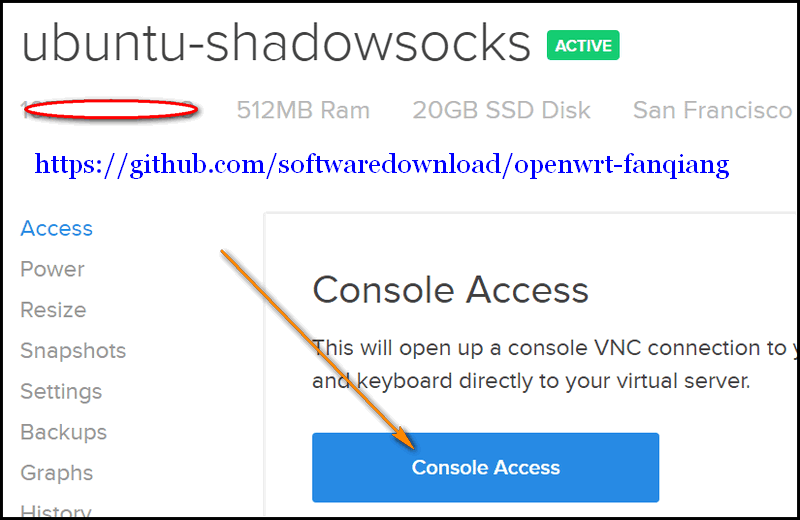
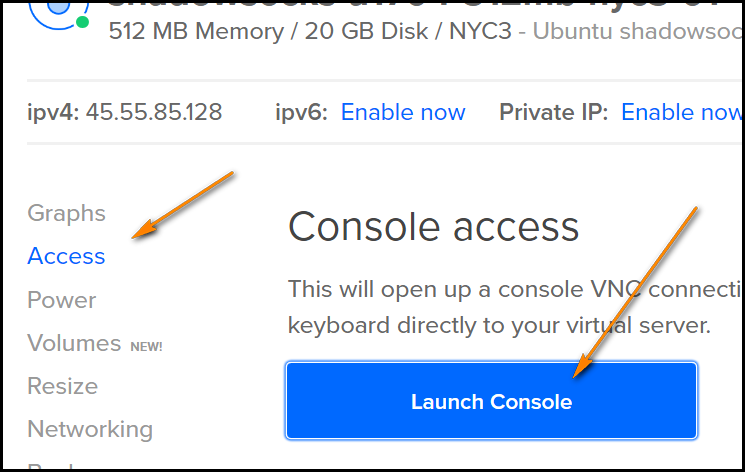
Update guide for creating DO VPS

diff --git a/ebook/03.9.md b/ebook/03.9.md
@@ -14,40 +14,47 @@
 
 ## 创建翻墙用的虚拟服务器Droplet
 
-注册DO并绑定支付方式后，登录管理后台，点击右上角的 `Create Droplet`:
+注册DO并绑定支付方式后，登录管理后台，点击右上角的 `Create` 从下拉菜单中选择 `Droplet`:
 
-- Choose an image 选择最新版的Ubuntu 64位，下图是14.04.3，下拉还有更新的如16.10：  
+- Choose an image 选择最新版的Ubuntu 64位，下图是14.04.3，下拉还有更新的如17.04：  
 	![](images/3.9.choose-an-image.png)
 - Choose a site 一般512MB那款就够了：  
 	![](images/3.9.choose-a-size.png)
-- Choose a datacenter region 经测试选择New York时访问YouTube会更快，San Francisco则慢且可能不稳定：  
+- Choose a datacenter region 经测试选择New York时访问YouTube较快：  
 	![](images/3.9.choose-a-datacenter-region.png)	
 - Select additional options, 勾选IPv6：  
 	![](images/3.9.select-addtional-options.png)
-- Choose a hostname, 只是助记，比如ubuntu-shadowsocks
+- Choose a hostname, 只是助记，比如改成ubuntu-shadowsocks
 - Create 创建虚拟服务器
 
 ## 进入DO VPS管理界面
 
-在20秒内，VPS创建完毕，并自动分配了IP，点击VPS名字进入管理VPS管理界面：  
+在20秒内，VPS创建完毕后自动进入了 `Droplets` （VPS）列表页面，点击VPS名字进入VPS管理界面：  
 ![](images/3.9.jinru-fanqiang-vps-guanli.png)
 
 
-## 重置DO VPS Root密码:  
+## 如何重置DO VPS Root密码:  
 
-注：如果已经收到root密码，请跳到一下步
+注：如果已经通过邮件收到root密码，请跳到一下步
 
-点击 `Reset Root Password` 重置密码：  
+点击左边的 `Access` 再点击右边的 `Reset Root Password` 重置密码：  
 ![](images/3.9.reset-password.png)
 
-重置密码完成后，新的密码会发送到你的邮箱，下面我们就用这个密码登录并直接在网页上管理VPS
+重置密码完成后，新的密码会发送到你的邮箱，下面我们就用这个密码登录并直接通过网页 Console 管理VPS
 
 ## 进入DO VPS命令行控制界面 Console Access
 
-DO有个极为强大的功能，可以可以直接在管理后台Console Access 运行Linux命令管理VPS，相当于一个在线版的SSH:  
+DO有个极为强大的功能，可以可以直接在管理后台Console Access 运行Linux命令管理VPS，相当于一个在线版的ssh
+
+点击页面右上角的 `Console` 可以直接进入，如下图:
+
+![](images/3.9.console.png)
+
+打开 Console 的另一方法是先点击左边的 `Access` 然后点击 `Launch Console` 如下图：  
+
 ![](images/3.9.console-access-fanqiang-vps.png)
 
-点击 `Console Access` 开启命令行窗口，如果打开失败就按F5刷新页面重试直到打开。
+如果等了一会儿命令行界面还没有出来，就按F5刷新页面直到打开。
 
 点击打开的命令行窗口以获得输入焦点。
 
@@ -55,7 +62,7 @@ DO有个极为强大的功能，可以可以直接在管理后台Console Access 
 
 开启DO Console Access后，输入root并回车，然后重新设置密码。
 
-	Ubuntu 15.10 ubuntu-shadowsocks tty1
+	Ubuntu 17.04 ubuntu-shadowsocks tty1
 	ubuntu-shadowsocks login: root
 	Passwd: 输入root密码
 	You are required to change your password immediately (root enforced)
@@ -103,8 +110,10 @@ Console Access界面是无法粘贴命令的，把下面命令逐行粘贴到浏
 * 照上面教程创建Droplet ubuntu-shadowsocks, 设置好shadowsocks-libev服务端，其中server写 `0.0.0.0` 并测试通过
 * Poweroff VPS，也就是VPS关机，这时还会产生VPS使用费用的，因为IP，空间等资源还是被你占用
 * 创建Snapshot，命名为shadowsocks，并传送到你可能使用的各个区域。比如你原来是在San Francisco创建的，可以传送到New York区
-* 删除VPS，Destroy Droplet ubuntu-shadowsocks，然后就不产生任何费用了。不怕麻烦，每天都这样操作，一个月可能只要2元钱就行了
-* 下次要使用，在Create Droplet的第一步，Choose an image, 选择Snapshots, shadowsocks，其他和上面教程一样
+* 删除VPS：Destroy Droplet ubuntu-shadowsocks，然后就不产生任何费用了。不怕麻烦，每天都这样操作，一个月可能只要2元钱就行了
+* 下次要使用，在Create Droplet的第一步，Choose an image, 选择Snapshots, shadowsocks，其他和上面教程一样。见下图：
+	![](images/3.9.choose-an-image-snapshots.png)	
+
 * 从snapshot创建Droplet完成，页面显示了VPS的IP地址，shadowsocks客户端连接到这个IP地址就行了，服务端不用更改任何设置
 
 ### 附录：怎样不“登录”路由器更改OpenWrt shadowsocks-libev路由器的server IP
